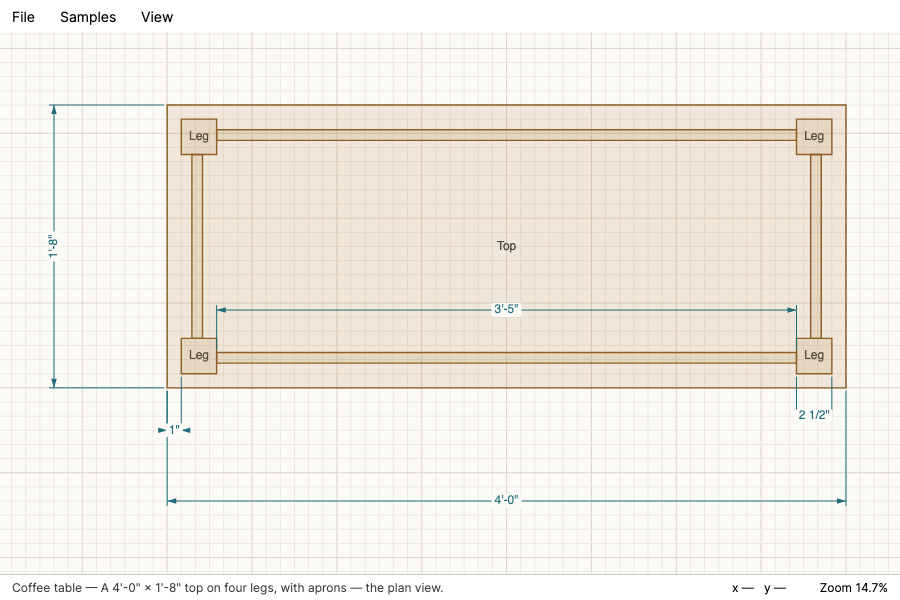
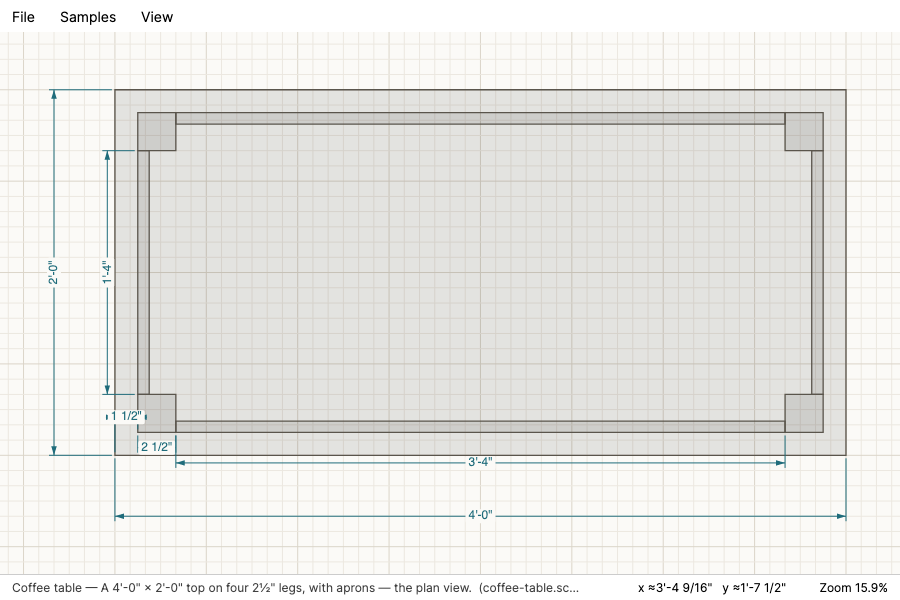
Document Open..., the refusal panel, and where the samples come from
docs/viewer.md gains the open path and what a refusal looks like, and says
plainly what changed in the drawing: the sample files put everything on one
layer called "Default", so parts draw in the neutral style rather than as
furniture, walls and openings, and nothing is named on a part because the M1
format stores no name per entity. The sample descriptions are the file
fixtures' numbers now, not the deleted in-code ones.

The screenshots are frames from this run's workflows, including a new one of a
refused file.

samples/README.md no longer says shipping these with the app "is not done
here", and records that renaming the fixtures' layers -- "Parts" for the table,
"Wall" and "Opening" for the wall -- is what would restore the styled look, and
that it is #37's change to make, not the viewer's.

diff --git a/docs/viewer.md b/docs/viewer.md
@@ -1,9 +1,9 @@
 # The viewer
 
-napkin's first window (issue #36, milestone **M1 Look**): it draws a design in plan view and lets
-you move around it. Nothing in it edits anything — there is no tool, no handle and no save. That is
-the whole of M1 on purpose: the drawing and the navigation have to feel right before anything is
-allowed to change the model.
+napkin's first window (issue #36, milestone **M1 Look**): it opens a design file and draws it in
+plan view, and lets you move around it. Nothing in it edits anything — there is no tool, no handle
+and no save. That is the whole of M1 on purpose: the drawing and the navigation have to feel right
+before anything is allowed to change the model.
 
 ![The coffee-table sample](screenshots/m1-coffee-table.png)
 
@@ -14,13 +14,20 @@ dotnet run --project src/Napkin.App
 ```
 
 It opens on the coffee-table sample, framed to fit. There is nothing to install and nothing to
-configure; the samples ship inside the build.
+configure; the sample files ship inside the build.
 
 ## What you are looking at
 
-- **Parts** are drawn as outlined, lightly filled rectangles, named where the name fits. A wall is
-  a thicker grey rectangle; an opening cut into one is drawn dashed, in the colour of the paper,
-  because it is a hole rather than a part.
+- **Parts** are drawn as outlined, lightly filled rectangles. How one is filled and outlined is
+  chosen by the *name of the layer it is on* — a part on "Parts" gets the furniture look, "Wall"
+  gets a thicker grey rectangle, "Opening" gets a dashed hole in the colour of the paper. Both
+  sample files put everything on one layer called "Default", so everything in them draws in the
+  neutral style; a file with those layer names in it gets those looks, and a file with layers
+  napkin has never heard of still draws.
+- **No names are drawn on parts.** The M1 scene format stores ids, geometry and relationships and
+  no name per entity, so a design read from a file has nothing to write on a leg. The canvas can
+  draw a name the moment a file carries one (`Design.Labels`), which is a new field and a
+  `formatVersion` bump the cut list (#8) will want; see [file-format.md](file-format.md).
 - **Dimensions** are real dimension graphics — extension lines, a dimension line with arrowheads,
   and the value centred on it — not floating text. The value is computed from the geometry the
   dimension measures, every time it is drawn, and formatted as feet, inches and sixteenths by
@@ -38,6 +45,7 @@ configure; the samples ship inside the build.
 
 | Gesture | What it does |
 |---|---|
+| **Ctrl/Cmd + O** | Open a scene file. |
 | **Wheel** | Zoom about the pointer. The model point under the cursor stays under it. |
 | **Shift + wheel** | Pan. A trackpad reports both axes, so it pans in both. |
 | **Drag**, left or middle button | Pan. The drawing follows the hand. |
@@ -45,6 +53,7 @@ configure; the samples ship inside the build.
 | **+** / **-** | Zoom in and out about the centre of the window. |
 | **Ctrl/Cmd + 0** | Zoom to fit: frame everything, dimension lines included, with a margin. |
 | **Ctrl/Cmd + 1**, **Ctrl/Cmd + 2** | Open the first or second sample. |
+| **Escape** | Dismiss a refusal message. |
 
 Left-drag pans because M1 has nothing to select. When editing lands (#10) the left button becomes
 the selection gesture and panning keeps the middle button; the wheel and the keyboard do not
@@ -56,11 +65,47 @@ Zoom is limited at both ends — from an inch drawn at a fiftieth of a pixel, wh
 
 ## The status line
 
-Three things, left to right: which sample is open and what it is, where the pointer is in the
-model as feet, inches and sixteenths, and the zoom as a percentage of life size (100% is a model
-inch drawn at 96 pixels, Avalonia's device-independent inch). The pointer readout is marked `≈`
-whenever the pixel it is over does not land exactly on a sixteenth — which is most of the time, and
-is the point of the marker.
+Three things, left to right: which design is open, which file it came from, and what it is; where
+the pointer is in the model as feet, inches and sixteenths; and the zoom as a percentage of life
+size (100% is a model inch drawn at 96 pixels, Avalonia's device-independent inch). The pointer
+readout is marked `≈` whenever the pixel it is over does not land exactly on a sixteenth — which is
+most of the time, and is the point of the marker.
+
+## Opening a file
+
+**File → Open…**, or **Ctrl/Cmd + O**, opens the platform's file dialog filtered to `*.scene.json`
+and `*.json`, and reads whatever is chosen with `Napkin.Core.Project`'s `SceneReader` — the same
+reader, with the same strictness, that the samples go through. A file that opens is shown, framed
+to fit, with its name in the window title and on the status line. Cancelling the dialog changes
+nothing at all.
+
+The dialog itself sits behind a one-method seam (`ISceneFilePicker`), because a native file dialog
+is the one part of this path a headless test cannot drive; everything after it — the shortcut, the
+command, the reader, the refusal, the canvas — is exercised for real by the GUI workflows.
+
+### When a file is refused
+
+![A file the viewer refused](screenshots/m1-refusal.png)
+
+The reader refuses rather than repairs (#6): a missing, empty or garbled file, a `formatVersion`
+this build does not read, an unknown field, a decimal length, an id that names nothing, a
+relationship kind this build's updater cannot hold. It reports **a list** of what was wrong, not
+one line, and the viewer shows the whole list in a panel over the drawing. **Escape, or a click on
+the message, dismisses it.**
+
+Two promises are worth stating because they are what the panel is for:
+
+- **Every problem is shown**, not the first. A file with four things wrong with it says four
+  things. (The reader works in stages and stops after the first stage that found anything, so a
+  file can still report fewer problems than it has faults — an unknown field is found before a
+  dangling id is looked for. What it reports, the panel shows in full.)
+- **The drawing you had is exactly as you left it**: the same sketch, the same view transform, the
+  same title and the same status line. The design is loaded before anything on screen is touched,
+  so there is no partly-opened state for a failure to leave behind, and the refusal panel floats
+  over the canvas rather than docking beside it so that showing it cannot even change the viewport.
+
+Nothing on this path throws: a reader that somehow threw, and a file dialog that failed, both end
+up in the same panel rather than in a crash.
 
 ## The samples
 
@@ -68,27 +113,39 @@ is the point of the marker.
 
 Two drawings, in the **Samples** menu:
 
-- **Coffee table** — a 4′-0″ × 1′-8″ top, four 2½″ legs inset 1″ from the edges, and four ¾″
-  aprons set back from the legs' outer faces.
-- **Wall with window** — 12′-0″ of 2×4 wall, 3½″ thick, with a 3′-0″ opening 4′-2½″ from the end,
-  framed by jack and king studs.
+- **Coffee table** — a 4′-0″ × 2′-0″ top, four 2½″ legs inset 1½″ from the edges, and four ¾″
+  aprons flush with the legs' outer faces.
+- **Wall with window** — 12′-0″ of 5½″ wall with a 3′-0″ opening centred in it, 4′-6″ of wall
+  either side.
 
-They are built in code, through the `Core.Geometry` API, behind `IDesignSource`
-(`src/Napkin.App/Designs/`). Every number in them is a real shop or framing number and lands
-exactly on the 1/1024″ grid; nothing in either sample rounds.
+**They are the files in [`samples/`](../samples/README.md)** — the same bytes
+`tests/Napkin.Core.Project.Tests` checks the reader against, copied into the build output and into
+a `dotnet publish` layout by a `Content` item in `src/Napkin.App/Napkin.App.csproj`. The Samples
+menu opens them through `SceneReader` like any other file; there is no second, in-code copy of a
+sample. There was until this change, because the viewer, the reader and the sample files were
+written in parallel; two hand-computed copies of the same drawing is one more than can be kept
+honest, and the copy that had no file behind it is the one that went.
 
-**Opening a file** is the menu item that is deliberately disabled. The scene reader is #6 and the
-sample files are #37, both in flight beside this viewer; when they land, a file source implements
-the same `IDesignSource` interface, `File → Open…` is enabled, and nothing in the canvas changes.
-A source that refuses a file already has its path through the window: the message names what was
-wrong and whatever is on screen is left untouched.
+Every number in them is a real shop or framing number, lands exactly on the 1/1024″ grid, and is
+derived by hand in the fixture's `*.design.md` and `*.expected.json`. Nothing in either sample
+rounds.
+
+The only thing about a sample that is *not* in its file is the title and the one-line blurb the
+menu and the status line show, and that is because the format stores no name for a drawing either.
+Those live in `SampleFiles.Catalogue`. A scene file dropped into `samples/` that nobody catalogued
+is still offered, under a title made from its file name.
 
 ## How it is tested
 
 - The transform arithmetic — world/screen round trips, zoom about a cursor, fit-to-extents, the
-  zoom limits — and the dimension labels are unit tests in
-  `tests/Napkin.App.GuiTests/Unit/`.
+  zoom limits — the dimension labels, and what `FileDesignSource` does with a missing, empty,
+  garbled, wrong-version or dangling-reference file are unit tests in
+  `tests/Napkin.App.GuiTests/Unit/`. The label expectations are read from each fixture's
+  `samples/*.expected.json` rather than typed out, so the viewer and the reader are held to one set
+  of hand-derived numbers.
 - The gestures are GUI workflows in `tests/Napkin.App.GuiTests/Workflows/ViewerWorkflows.cs`,
-  which drive the real window with simulated keyboard and mouse input on the headless platform.
-  See [gui-automation.md](testing/gui-automation.md).
+  which drive the real window with simulated keyboard and mouse input on the headless platform —
+  including `GUI-VIEW-05`, which opens two bad files through the real shortcut, dismisses each
+  refusal (once with Escape, once with the mouse), checks that the drawing and the view never
+  moved, and then opens a good one. See [gui-automation.md](testing/gui-automation.md).
 - The screenshots on this page are frames those workflows rendered.

diff --git a/samples/README.md b/samples/README.md
@@ -57,28 +57,43 @@ after re-doing the arithmetic by hand and writing the new derivation down.
 
 ## Opening these in the app
 
-The viewer (#36) builds its M1 samples in code, because the reader and these files were written in
-parallel. Wiring it to open these instead is one implementation of its own `IDesignSource`:
+**These files are the viewer's samples.** The viewer (#36) built its own copies in code while the
+reader and these files were being written in parallel; it does not any more. `src/Napkin.App`
+copies `samples/*.scene.json` into its build output and into a `dotnet publish` layout with a
+`Content` item, and its Samples menu opens them through `FileDesignSource`, which is one
+implementation of `IDesignSource` over `SceneReader`:
 
 ```csharp
 LoadResult result = SceneReader.ReadFile(path);          // Napkin.Core.Project
 return result switch
 {
     Loaded loaded => Design.Unlabelled(name, loaded.Sketch),
-    Refused refused => throw new DesignLoadException(refused.Summary),
+    Refused refused => throw new DesignLoadException(
+        refused.Summary,
+        refused.Problems.Select(problem => problem.ToString())),
     _ => throw new InvalidOperationException(),
 };
 ```
 
-`Refused.Summary` is written to be shown to a person as it is: one line per problem, each naming
-the field, id, kind or value that was wrong.
+`Refused.Summary` is written to be shown to a person as it is, and `Refused.Problems` is the same
+thing line by line: the viewer lists every one of them in a panel over the drawing, which is
+`GUI-VIEW-05`. A file dialog on a machine that has never seen this repository therefore opens the
+same bytes this directory holds.
 
-Issue #37 also asks that these fixtures ship inside the app build, so the file dialog can open them
-on a machine that has never seen this repository. That is a `Content` item over
-`samples/*.scene.json` with `CopyToOutputDirectory` in `src/Napkin.App/Napkin.App.csproj`, which
-belongs to the viewer; it is not done here.
+**The expectations are the viewer's too.** `tests/Napkin.App.GuiTests` reads each fixture's
+`*.expected.json` for the dimension strings its workflows assert and for the positions its parts
+must be drawn at, so one set of hand-derived numbers is what both the reader and the viewer are
+held to. It reads them from here, in the repository, rather than from the build output: they are
+the answers, not something the application ships.
 
 **Entities carry no name.** `Design.Labels` — the viewer's part names — has nothing to read from
-the file: the format stores ids, geometry and relationships only. The names in these fixtures live
-in their `*.expected.json`. Putting a name in the scene file is a new field and a `formatVersion`
-bump, which the cut list (#8) may well want; see `docs/file-format.md`.
+the file: the format stores ids, geometry and relationships only, so a design opened from one of
+these files is drawn with no name on any part. The names in these fixtures live in their
+`*.expected.json`. Putting a name in the scene file is a new field and a `formatVersion` bump,
+which the cut list (#8) may well want; see `docs/file-format.md`.
+
+**Layers are named "Default".** The viewer styles a part by the name of the layer it is on — a
+part on "Parts" is drawn as furniture, one on "Wall" as a wall, one on "Opening" as a dashed hole —
+so everything in these two fixtures draws in the neutral style. Giving the coffee table's layer the
+name "Parts", and splitting the wall's into "Wall" and "Opening", would be a change to these
+fixtures rather than to the viewer, and is #37's to make.

diff --git a/docs/testing/gui-automation.md b/docs/testing/gui-automation.md
@@ -199,14 +199,24 @@ workflow's acceptance sentence stops being true of the product, rewrite the sent
 `features/gui-shell.json` and the scenario together, in the change that made it untrue. A suite
 that has to be rewritten as the product grows is doing its job.
 
-The viewer's own workflows, `GUI-VIEW-01` to `GUI-VIEW-04`, live in
+The viewer's own workflows, `GUI-VIEW-01` to `GUI-VIEW-05`, live in
 `tests/Napkin.App.GuiTests/Workflows/ViewerWorkflows.cs` and are catalogued in
-`features/catalog.json`. Two of them deviate from the catalogue's wording while the scene reader
-(#6) and the sample files (#37) are still being written: they open a sample through the Samples
-menu rather than through a file dialog, and state their expected dimension strings inline rather
-than reading a fixture's expectations file. `GUI-VIEW-05`, a file the application cannot read
-failing visibly, waits for the reader. Both deviations are recorded in that file's own
-documentation comment.
+`features/catalog.json`. Two of them used to deviate from the catalogue's wording, while the scene
+reader (#6) and the sample files (#37) were still being written: they opened a sample the viewer
+had built in code rather than a file, and stated their expected dimension strings inline rather
+than reading a fixture's expectations file. Both have been closed. `GUI-VIEW-01` opens a scene file
+through the real **Ctrl/Cmd + O** shortcut and the real command, `GUI-VIEW-04` reads its expected
+strings out of `samples/wall-with-window.expected.json`, and `GUI-VIEW-05` — a file the application
+cannot read failing visibly — is implemented.
+
+**One substitution remains, and it is the one headless cannot avoid**: the platform's open dialog.
+A workflow puts an `ISceneFilePicker` that answers with a path behind `MainWindow.FilePicker` and
+then presses the shortcut; the key binding, the command, the reader, the refusal panel and the
+canvas are all the shipped code. Driving the real dialog belongs to the real-OS smoke layer
+described at the foot of this page. Two cases have no gesture behind them at all — cancelling a
+dialog that cannot be shown, and a dialog that throws — and those are asserted against the real
+window in `tests/Napkin.App.GuiTests/Unit/OpenFileTests.cs` through `HeadlessWindow`, which records
+no feature id and cannot move the ratchet.
 
 ## Planned workflows
 
